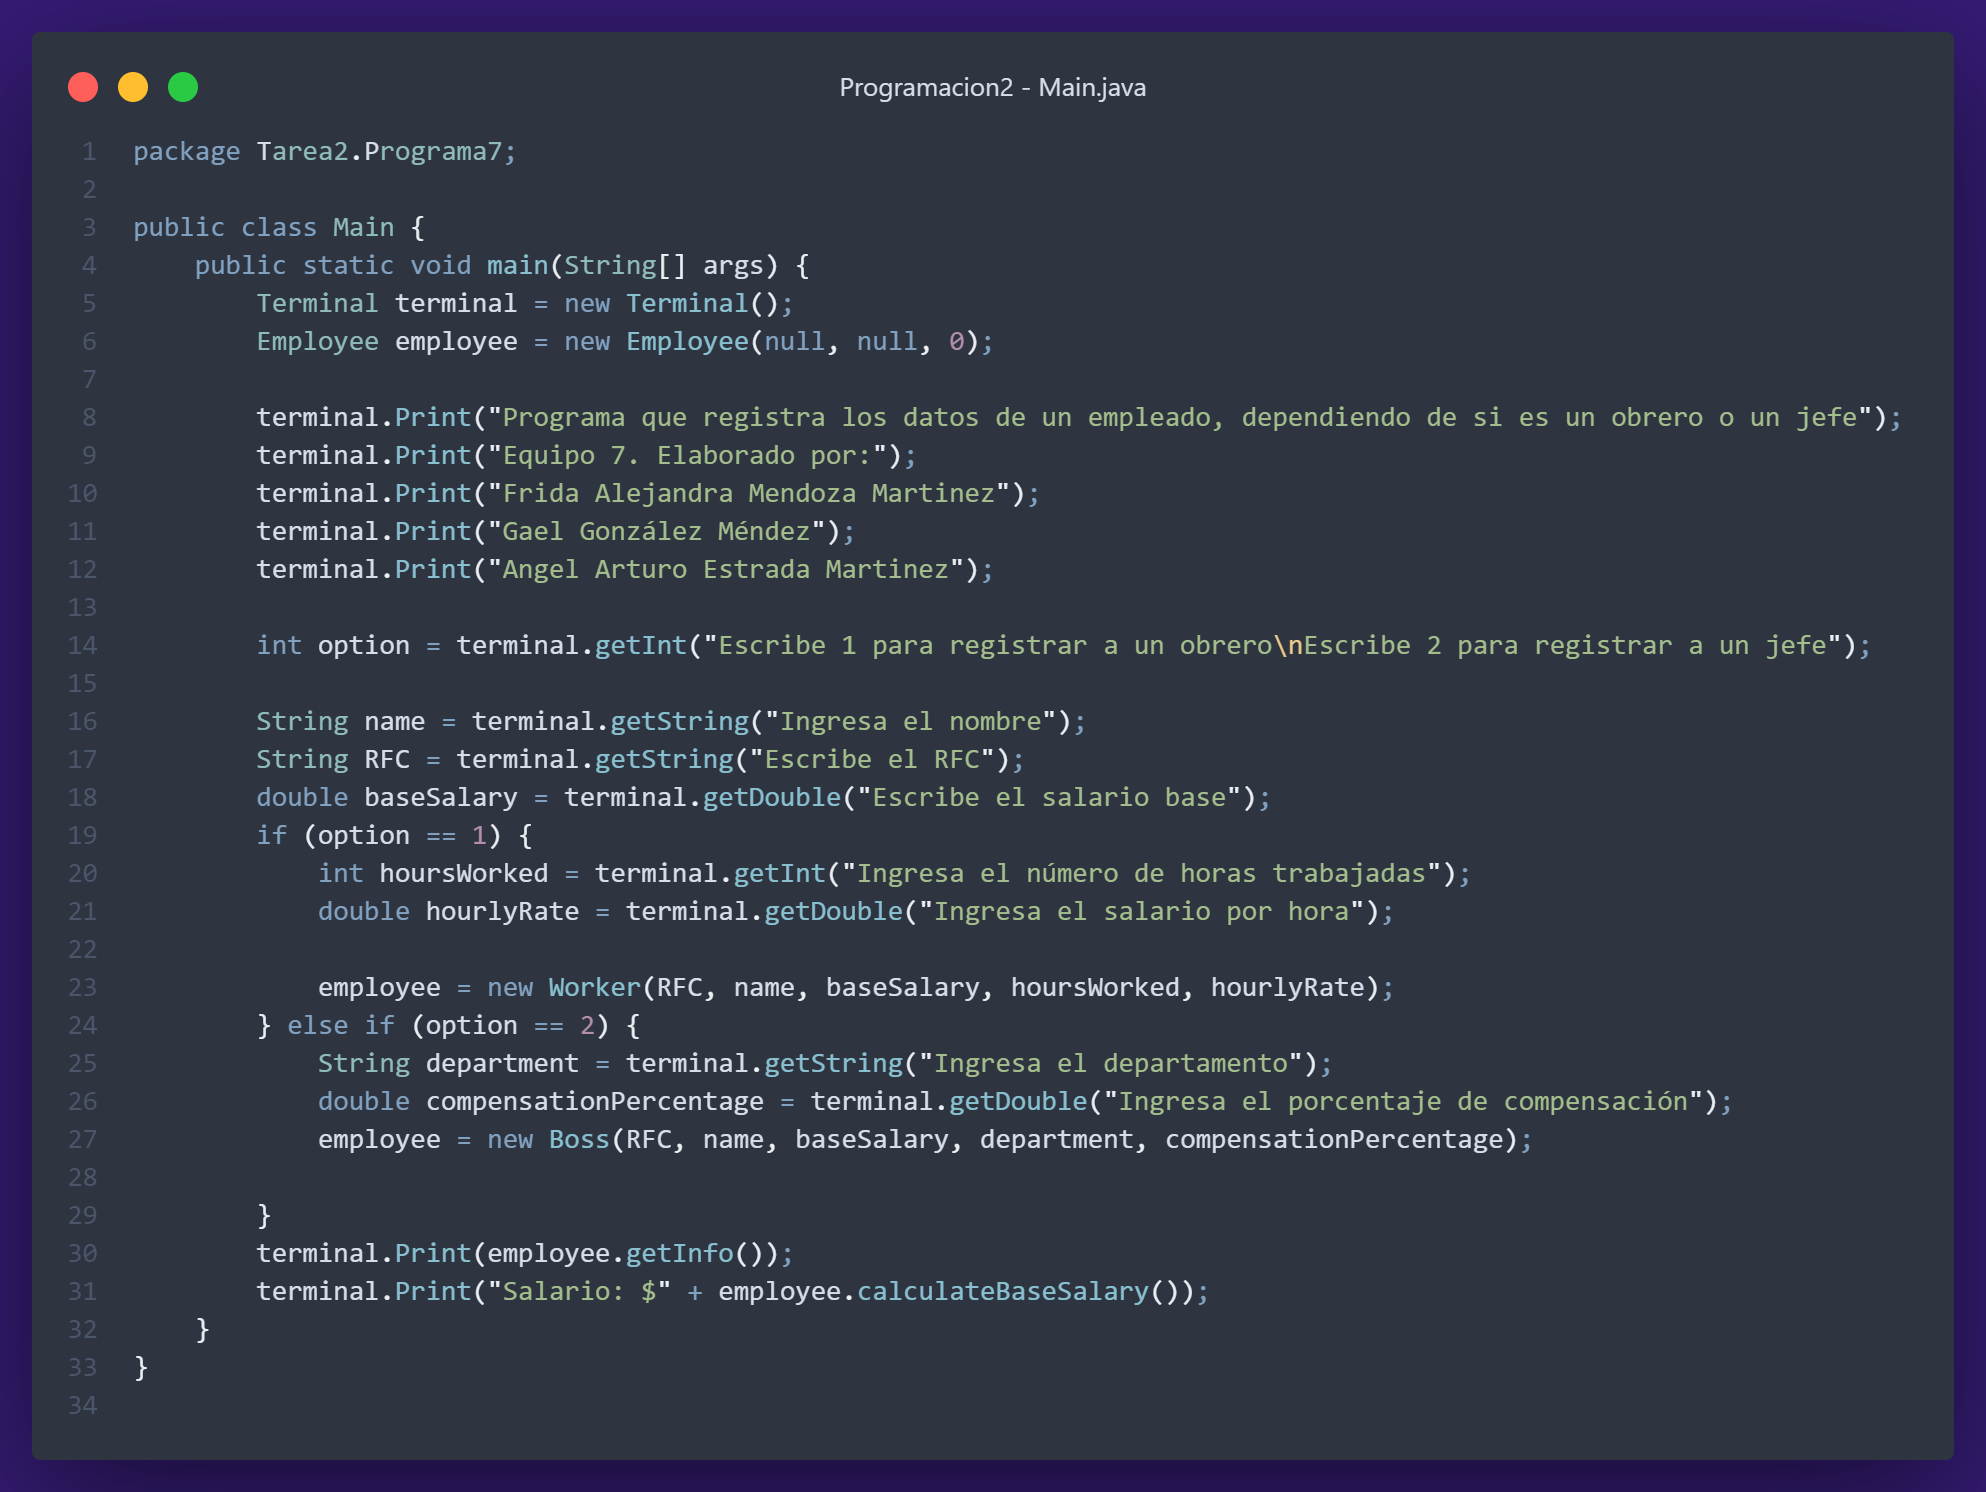
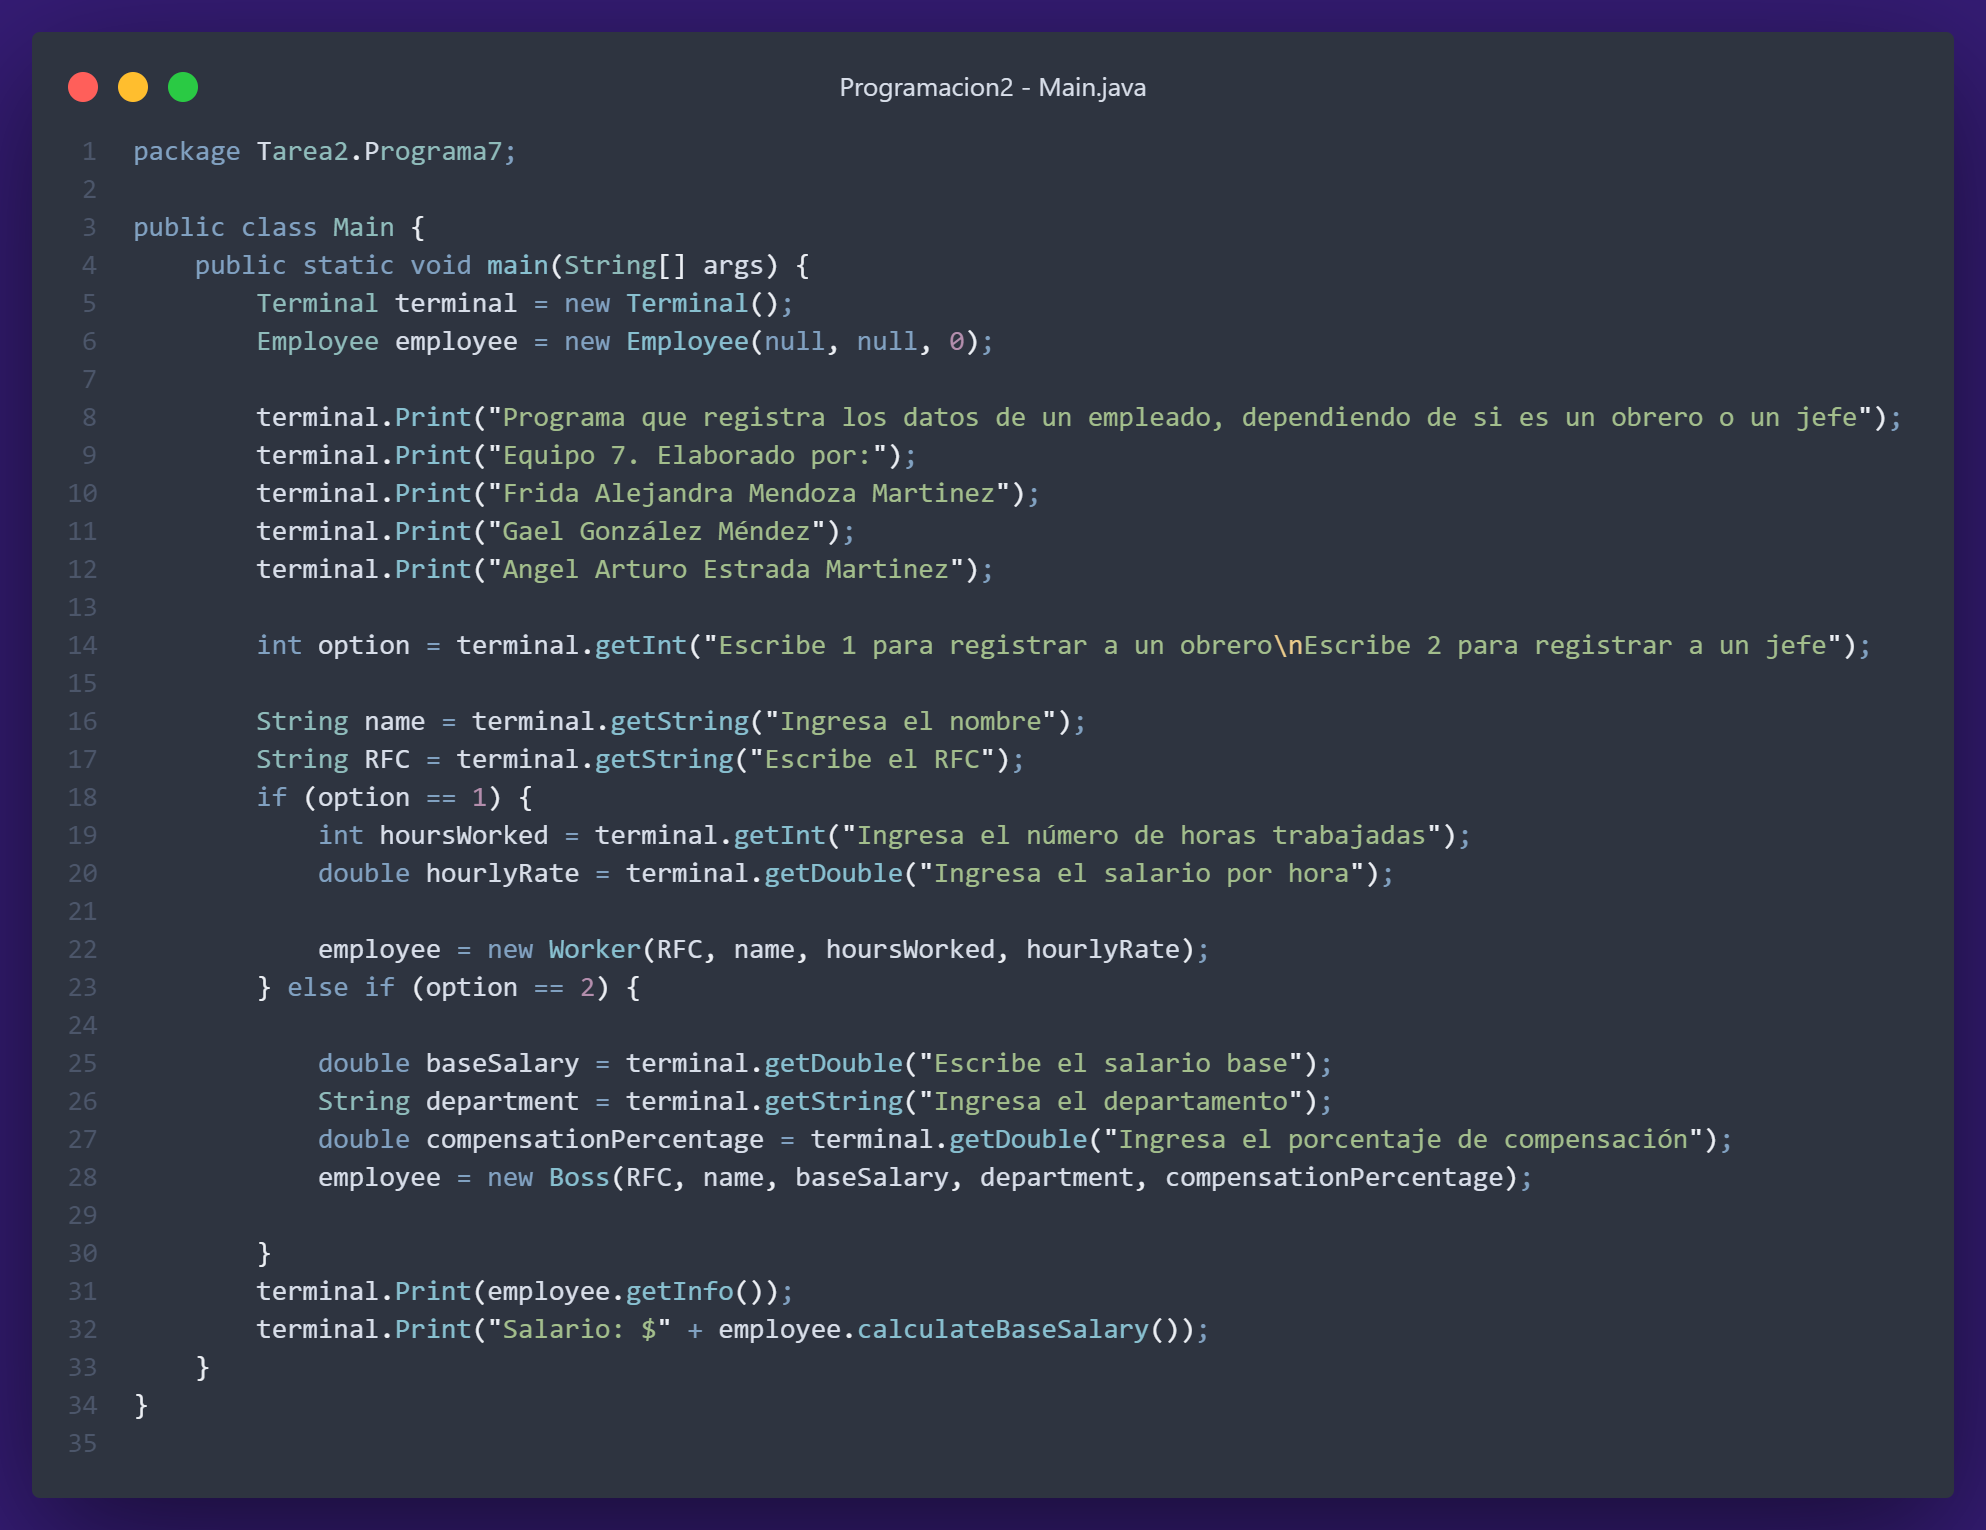
Correcciones Programa 7

diff --git a/Tarea2/Programa7/Main.java b/Tarea2/Programa7/Main.java
@@ -15,13 +15,14 @@ public class Main {
 
         String name = terminal.getString("Ingresa el nombre");
         String RFC = terminal.getString("Escribe el RFC");
-        double baseSalary = terminal.getDouble("Escribe el salario base");
         if (option == 1) {
             int hoursWorked = terminal.getInt("Ingresa el número de horas trabajadas");
             double hourlyRate = terminal.getDouble("Ingresa el salario por hora");
 
-            employee = new Worker(RFC, name, baseSalary, hoursWorked, hourlyRate);
+            employee = new Worker(RFC, name, hoursWorked, hourlyRate);
         } else if (option == 2) {
+
+            double baseSalary = terminal.getDouble("Escribe el salario base");
             String department = terminal.getString("Ingresa el departamento");
             double compensationPercentage = terminal.getDouble("Ingresa el porcentaje de compensación");
             employee = new Boss(RFC, name, baseSalary, department, compensationPercentage);

diff --git a/Tarea2/Programa7/Worker.java b/Tarea2/Programa7/Worker.java
@@ -5,14 +5,15 @@ public class Worker extends Employee {
     private int hoursWorked;
     private double hourlyRate;
 
-    public Worker(String rFC, String name, double baseSalary, int hoursWorked, double hourlyRate) {
-        super(rFC, name, baseSalary);
+    public Worker(String rFC, String name, int hoursWorked, double hourlyRate) {
+        super(rFC, name, 0d);
         this.hoursWorked = hoursWorked;
         this.hourlyRate = hourlyRate;
     }
 
     public double calculateBaseSalary() {
-        return super.calculateBaseSalary() + this.hourlyRate * this.hoursWorked;
+        this.baseSalary = hoursWorked * hourlyRate;
+        return this.baseSalary;
     }
 
     public String getInfo() {

diff --git a/Tarea2/Programa7/Boss.java b/Tarea2/Programa7/Boss.java
@@ -11,7 +11,7 @@ public class Boss extends Employee {
     }
 
     public double calculateBaseSalary() {
-        double compensation = this.baseSalary * this.compensationPercentage / 100;
+        double compensation = this.baseSalary * (1 + this.compensationPercentage / 100);
         return super.calculateBaseSalary() + compensation;
     }
 

diff --git a/Tarea2/Programa7/Employee.java b/Tarea2/Programa7/Employee.java
@@ -11,7 +11,7 @@ public class Employee {
     }
 
     public double calculateBaseSalary() {
-        return this.baseSalary * 15;
+        return 0d;
     }
 
     public String getInfo() {
